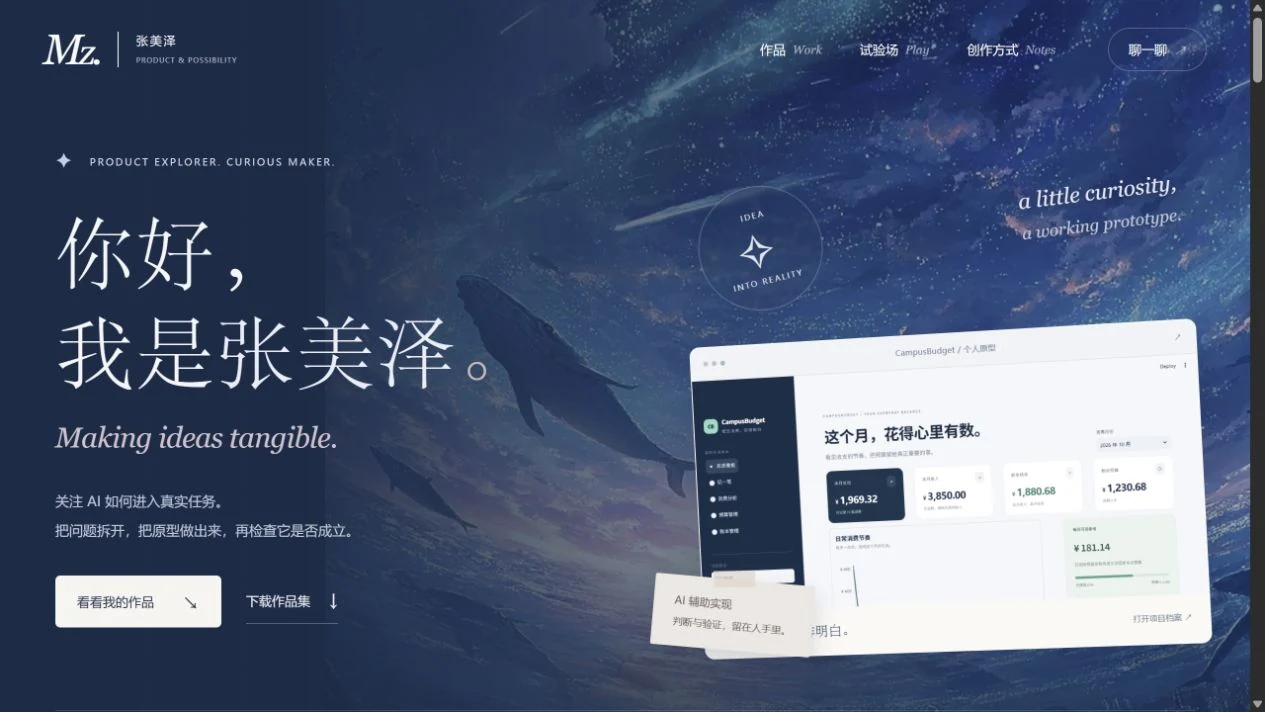
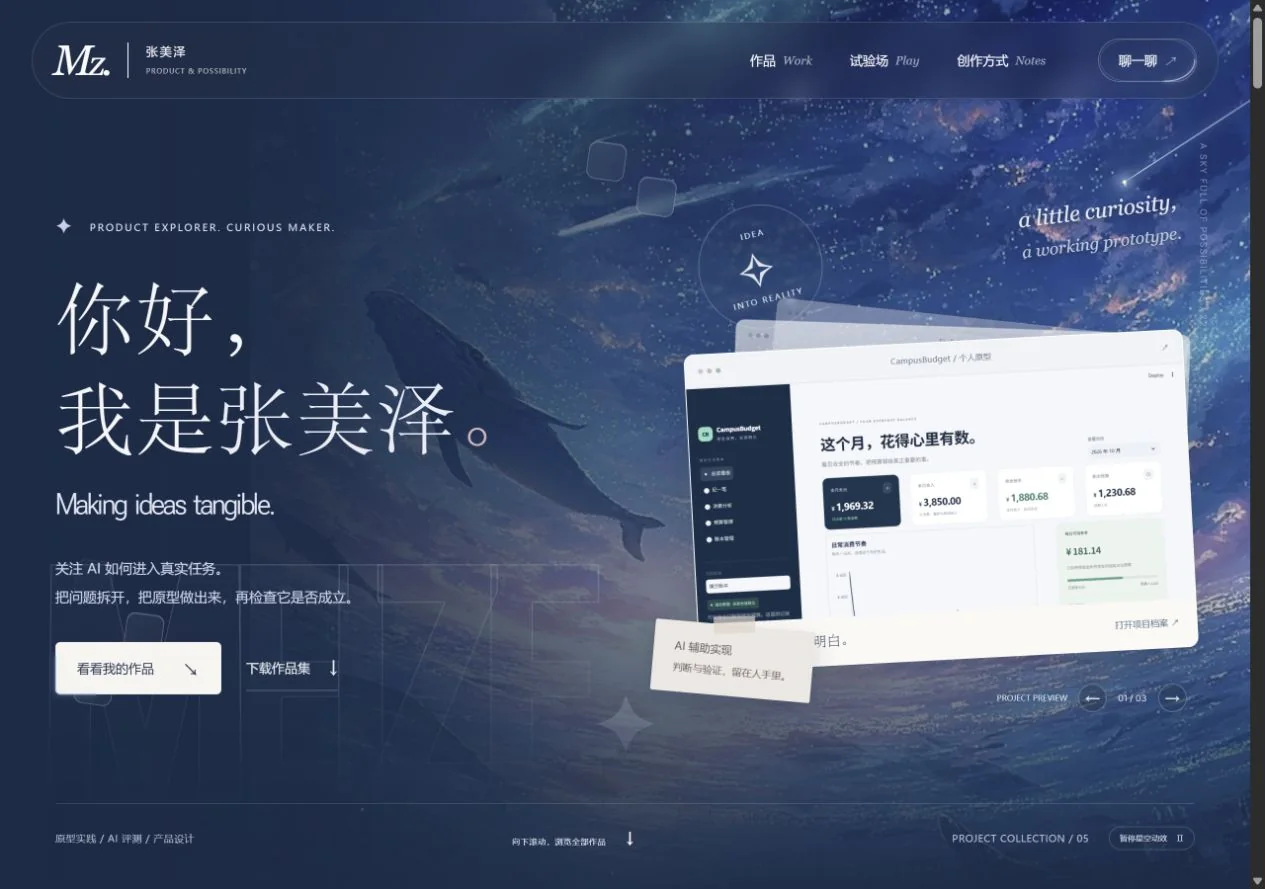
Reveal portfolio chapters through scroll-driven windows

diff --git a/index.html b/index.html
@@ -15,6 +15,7 @@
   <link rel="stylesheet" href="sea.css">
   <link rel="stylesheet" href="typography.css">
   <link rel="stylesheet" href="details.css">
+  <link rel="stylesheet" href="chapters.css?v=20261028-flow">
   <link rel="preconnect" href="https://fonts.googleapis.com">
   <link rel="preconnect" href="https://fonts.gstatic.com" crossorigin>
   <link href="https://fonts.googleapis.com/css2?family=Roboto+Flex:opsz,wdth,wght@8..144,25..151,100..1000&amp;display=swap" rel="stylesheet">
@@ -41,6 +42,7 @@
     <section class="hero" id="home" aria-labelledby="hero-title">
       <div class="hero-art" aria-hidden="true"></div>
       <div class="hero-haze" aria-hidden="true"></div>
+      <div class="hero-wordmark" aria-hidden="true">MEIZE<span>✦</span></div>
       <div class="star-field" aria-hidden="true"></div>
       <div class="meteor-field" aria-hidden="true"><i class="meteor meteor-one"></i><i class="meteor meteor-two"></i><i class="meteor meteor-three"></i></div>
       <div class="hero-glass" aria-hidden="true"></div>
@@ -67,7 +69,7 @@
           <span class="paper-note">AI 辅助实现<br><b>判断与验证，留在人手里。</b></span>
         </div>
       </div>
-      <div class="hero-bottom shell"><span>原型实践 / AI 评测 / 产品设计</span><a href="#coordinates">SCROLL TO EXPLORE <span aria-hidden="true">↓</span></a><span class="hero-settings"><span>PROJECT COLLECTION / 05</span><button id="motion-toggle" class="motion-toggle" aria-pressed="false">暂停星空动效 <span aria-hidden="true">Ⅱ</span></button></span></div>
+      <div class="hero-bottom shell"><span>原型实践 / AI 评测 / 产品设计</span><a href="#coordinates">向下滚动，浏览全部作品 <span aria-hidden="true">↓</span></a><span class="hero-settings"><span>PROJECT COLLECTION / 05</span><button id="motion-toggle" class="motion-toggle" aria-pressed="false">暂停星空动效 <span aria-hidden="true">Ⅱ</span></button></span></div>
     </section>
 
 
@@ -90,24 +92,24 @@
 
     <section class="work-section section-pad" id="work" aria-labelledby="work-title">
       <div class="shell">
-        <div class="section-heading reveal"><div><p class="eyebrow">01 / SELECTED WORK</p><h2 id="work-title">我的作品<span class="serif-amp">与</span>尝试<span class="heading-star" aria-hidden="true">✧</span></h2></div><p class="section-aside">从一个具体问题开始。<br>用可展示的过程，讲清楚我做了什么。</p></div>
+        <div class="section-heading reveal"><div><p class="eyebrow">01 / SELECTED WORK</p><h2 id="work-title" class="cinematic-work-title" aria-label="精选作品与实践"><span>SELECTED</span><br><span>WORK<span class="work-dot">.</span></span></h2></div><p class="section-aside">从一个具体问题开始。<br>用可展示的过程，讲清楚我做了什么。</p></div>
         <div class="work-toolbar reveal"><div class="filters" role="group" aria-label="按方向筛选作品"><button class="filter active" data-filter="all" aria-pressed="true">全部作品 <small>05</small></button><button class="filter" data-filter="prototype" aria-pressed="false">AI 辅助原型</button><button class="filter" data-filter="evaluation" aria-pressed="false">AI 评测</button><button class="filter" data-filter="product" aria-pressed="false">产品设计</button><button class="filter" data-filter="data" aria-pressed="false">数据分析</button></div><span class="filter-note" id="filter-note" aria-live="polite">5 个项目，逐项展开</span></div>
 
-<article class="project reveal" data-category="evaluation" id="project-evaluation"><button class="project-visual evaluation-visual" data-case="evaluation" aria-label="查看 AI 能力评测项目详情"><span class="visual-index">01 / AI EVALUATION</span><span class="eval-poster"><span class="data-poster-kicker">LOOK CLOSER AT THE ANSWER</span><span class="eval-poster-title">答得顺，<br><i>也值得再问一步。</i></span><span class="eval-answer"><small>原记录中的错误摘要</small><b>800 + 1,200 + 2,400</b><strong>“4.40 万元” <em>?</em></strong><span>算式看似正常，单位却放大了十倍。</span></span></span><span class="visual-caption">评测的不只是答案，还有错误发生的位置。</span><span class="open-dot" aria-hidden="true">↗</span></button><div class="project-copy"><p class="project-kicker">AI 能力测试 · 错误归因 · 小组实践</p><h3>AI 能力评测<span class="project-title-cn">“回答正确”之外，还看什么？</span></h3><p class="project-description">从金融信息不足、错误前提和约束计算切入，再用歧义探针观察不同模式的回答。把错误位置留下来，检查评测题本身有没有区分度。</p><dl class="project-facts"><div><dt>项目方式</dt><dd>小组共同完成，保留题目、回答与对照分析</dd></div><div><dt>值得展开</dt><dd>单位错误、约束遗漏、提示污染与题目区分度</dd></div></dl><div class="project-metrics"><span><b>14</b>份模型 / 模式回答记录</span><span><b>3</b>组补充歧义探针</span></div><button class="text-link" data-case="evaluation">打开项目档案 <span aria-hidden="true">↗</span></button></div></article>
-        <article class="project reveal" data-category="prototype" id="project-campus">
-          <button class="project-visual campus-visual" data-case="campus" aria-label="查看 CampusBudget 项目详情"><span class="visual-index">02 / PERSONAL PROJECT</span><span class="project-screen"><span class="window-bar"><span class="window-dots"><i></i><i></i><i></i></span><span>CampusBudget</span><span aria-hidden="true">↗</span></span><img loading="lazy" src="assets/campus-overview.png" alt="CampusBudget 深蓝与薄荷绿配色的真实总览界面，数据为模拟数据" width="1440" height="1320"></span><span class="visual-caption">从记一笔，到看清本月的安排。</span><span class="open-dot" aria-hidden="true">↗</span></button>
-          <div class="project-copy"><p class="project-kicker">AI 辅助开发 · 个人财务管理原型</p><h3>CampusBudget<span class="project-title-cn">让预算，更贴近日常。</span></h3><p class="project-description">记账只是开始。我把收支、消费结构和预算安排串成一个流程，让“还能花多少”有可以回看的计算依据。</p><dl class="project-facts"><div><dt>我的工作</dt><dd>原型实践与迭代，使用 Trae、Codex 辅助实现</dd></div><div><dt>值得展开</dt><dd>解析后确认、可解释提醒、跨月计算修复</dd></div></dl><div class="project-metrics"><span><b>24</b>项预设测试通过</span><span><b>5</b>个功能页面</span></div><div class="project-links"><button class="text-link" data-case="campus">打开项目档案 <span aria-hidden="true">↗</span></button><a class="subtle-link" href="https://github.com/rachelmeize-ui/CampusBudget" target="_blank" rel="noopener noreferrer">GitHub ↗</a></div></div>
+<article class="project reveal" data-category="evaluation" id="project-evaluation" data-index="01"><button class="project-visual evaluation-visual" data-case="evaluation" aria-label="查看 AI 能力评测项目详情"><span class="visual-index">01 / AI EVALUATION</span><span class="eval-poster"><span class="data-poster-kicker">LOOK CLOSER AT THE ANSWER</span><span class="eval-poster-title">答得顺，<br><i>也值得再问一步。</i></span><span class="eval-answer"><small>原记录中的错误摘要</small><b>800 + 1,200 + 2,400</b><strong>“4.40 万元” <em>?</em></strong><span>算式看似正常，单位却放大了十倍。</span></span></span><span class="visual-caption">评测的不只是答案，还有错误发生的位置。</span><span class="visual-entry" aria-hidden="true">点击查看完整案例 ↗</span></button><div class="project-copy"><p class="project-kicker">AI 能力测试 · 错误归因 · 小组实践</p><h3>AI 能力评测<span class="project-title-cn">“回答正确”之外，还看什么？</span></h3><p class="project-description">从金融信息不足、错误前提和约束计算切入，再用歧义探针观察不同模式的回答。把错误位置留下来，检查评测题本身有没有区分度。</p><dl class="project-facts"><div><dt>项目方式</dt><dd>小组共同完成，保留题目、回答与对照分析</dd></div><div><dt>值得展开</dt><dd>单位错误、约束遗漏、提示污染与题目区分度</dd></div></dl><div class="project-metrics"><span><b>14</b>份模型 / 模式回答记录</span><span><b>3</b>组补充歧义探针</span></div><button class="text-link" data-case="evaluation">查看完整案例 <span aria-hidden="true">↗</span></button></div></article>
+        <article class="project reveal" data-category="prototype" id="project-campus" data-index="02">
+          <button class="project-visual campus-visual" data-case="campus" aria-label="查看 CampusBudget 项目详情"><span class="visual-index">02 / PERSONAL PROJECT</span><span class="project-screen"><span class="window-bar"><span class="window-dots"><i></i><i></i><i></i></span><span>CampusBudget</span><span aria-hidden="true">↗</span></span><img loading="lazy" src="assets/campus-overview.png" alt="CampusBudget 深蓝与薄荷绿配色的真实总览界面，数据为模拟数据" width="1440" height="1320"></span><span class="visual-caption">从记一笔，到看清本月的安排。</span><span class="visual-entry" aria-hidden="true">点击查看完整案例 ↗</span></button>
+          <div class="project-copy"><p class="project-kicker">AI 辅助开发 · 个人财务管理原型</p><h3>CampusBudget<span class="project-title-cn">让预算，更贴近日常。</span></h3><p class="project-description">记账只是开始。我把收支、消费结构和预算安排串成一个流程，让“还能花多少”有可以回看的计算依据。</p><dl class="project-facts"><div><dt>我的工作</dt><dd>原型实践与迭代，使用 Trae、Codex 辅助实现</dd></div><div><dt>值得展开</dt><dd>解析后确认、可解释提醒、跨月计算修复</dd></div></dl><div class="project-metrics"><span><b>24</b>项预设测试通过</span><span><b>5</b>个功能页面</span></div><div class="project-links"><button class="text-link" data-case="campus">查看完整案例 <span aria-hidden="true">↗</span></button><a class="subtle-link" href="https://github.com/rachelmeize-ui/CampusBudget" target="_blank" rel="noopener noreferrer">GitHub ↗</a></div></div>
         </article>
 
-        <article class="project project-reverse reveal" data-category="product" id="project-finfair">
-          <button class="project-visual finfair-visual" data-case="finfair" aria-label="查看 FinFair 项目详情"><span class="visual-index">03 / TEAM PROTOTYPE</span><span class="finfair-paper"><span class="paper-eyebrow">FinFair / 金融信息核验</span><span class="paper-question">宣传怎么说？<br><em>原文怎么写？</em></span><span class="evidence-sample"><span class="sample-tag">模拟案例</span><span>“年化 3.20%”</span><span class="sample-divider" aria-hidden="true">↓</span><strong>业绩比较基准 ≠ 保证收益</strong><small>说明书 P.1 · 逐项对照与原文追溯</small></span></span><span class="visual-caption">让每一个提示，都有核对的入口。</span><span class="open-dot" aria-hidden="true">↗</span></button>
-          <div class="project-copy"><p class="project-kicker">AI 产品设计 · 金融场景 · 团队原型</p><h3>FinFair<span class="project-title-cn">让金融信息，有据可查。</span></h3><p class="project-description">把宣传文案与说明书放在一起，围绕收益、费用和风险提示差异，再把解释带回原文。</p><dl class="project-facts"><div><dt>我的工作</dt><dd>参与功能与流程讨论，负责商业计划、演示和汇报交付</dd></div><div><dt>值得展开</dt><dd>证据紧邻结论、信息缺失提示、用户核对路径</dd></div></dl><p class="role-note">团队协作项目，核心代码由另一位成员完成。</p><button class="text-link" data-case="finfair">打开项目档案 <span aria-hidden="true">↗</span></button></div>
+        <article class="project project-reverse reveal" data-category="product" id="project-finfair" data-index="03">
+          <button class="project-visual finfair-visual" data-case="finfair" aria-label="查看 FinFair 项目详情"><span class="visual-index">03 / TEAM PROTOTYPE</span><span class="finfair-paper"><span class="paper-eyebrow">FinFair / 金融信息核验</span><span class="paper-question">宣传怎么说？<br><em>原文怎么写？</em></span><span class="evidence-sample"><span class="sample-tag">模拟案例</span><span>“年化 3.20%”</span><span class="sample-divider" aria-hidden="true">↓</span><strong>业绩比较基准 ≠ 保证收益</strong><small>说明书 P.1 · 逐项对照与原文追溯</small></span></span><span class="visual-caption">让每一个提示，都有核对的入口。</span><span class="visual-entry" aria-hidden="true">点击查看完整案例 ↗</span></button>
+          <div class="project-copy"><p class="project-kicker">AI 产品设计 · 金融场景 · 团队原型</p><h3>FinFair<span class="project-title-cn">让金融信息，有据可查。</span></h3><p class="project-description">把宣传文案与说明书放在一起，围绕收益、费用和风险提示差异，再把解释带回原文。</p><dl class="project-facts"><div><dt>我的工作</dt><dd>参与功能与流程讨论，负责商业计划、演示和汇报交付</dd></div><div><dt>值得展开</dt><dd>证据紧邻结论、信息缺失提示、用户核对路径</dd></div></dl><p class="role-note">团队协作项目，核心代码由另一位成员完成。</p><button class="text-link" data-case="finfair">查看完整案例 <span aria-hidden="true">↗</span></button></div>
         </article>
 
-<article class="project project-reverse reveal" data-category="product" id="project-skill"><button class="project-visual skill-visual" data-case="skill" aria-label="查看金融项目 Skill 设计与测试详情"><span class="visual-index">04 / SKILL & VERIFICATION</span><span class="skill-poster"><span class="paper-eyebrow">fintech-project-briefing</span><span class="paper-question">同一个数字，<br><em>现在生效了吗？</em></span><span class="skill-version"><span>V1 / 未识别变更状态<b>380 万元</b><small>误用尚未生效的安排</small></span><span>V2 / 新增生效判断<b>420 万元</b><small>保留当前有效预算</small></span></span><span class="skill-sample-label">模拟信贷情景 / 失败与复测记录</span></span><span class="open-dot" aria-hidden="true">↗</span></button><div class="project-copy"><p class="project-kicker">Skill 工作流 · 质量核验 · 小组实践</p><h3>金融项目汇报 Skill<span class="project-title-cn">让规则，经得起复测。</span></h3><p class="project-description">把事实分级、缺失信息和版本变更写进可复用工作流。通过失败记录找出规则缺口，再对同一任务复测。</p><dl class="project-facts"><div><dt>项目方式</dt><dd>小组共同完成，使用 AI 辅助组织与生成交付材料</dd></div><div><dt>值得展开</dt><dd>变更生效判断、跨文档一致性与不适用任务</dd></div></dl><div class="project-metrics"><span><b>V1 / V2</b>版本对照</span><span><b>7</b>类场景测试记录</span></div><button class="text-link" data-case="skill">打开项目档案 <span aria-hidden="true">↗</span></button></div></article>
-        <article class="project reveal" data-category="data" id="project-marketing">
-          <button class="project-visual marketing-visual" data-case="marketing" aria-label="查看银行客户营销响应预测项目详情"><span class="visual-index">05 / DATA & DECISION</span><span class="data-poster"><span class="data-poster-kicker">BANK MARKETING ANALYTICS</span><span class="data-poster-title">先找到，<br><i>更值得联系的人。</i></span><span class="data-poster-chart"><span style="--bar:73%"><i></i><small>AdaBoost</small></span><span style="--bar:72.4%"><i></i><small>随机森林</small></span><span style="--bar:71.3%"><i></i><small>逻辑回归</small></span></span><span class="data-poster-foot">6 种模型 · 离线评估 · 客户分层建议</span></span><span class="open-dot" aria-hidden="true">↗</span></button>
-          <div class="project-copy"><p class="project-kicker">数据处理 · 模型评估 · 业务分析</p><h3>银行客户营销响应预测<span class="project-title-cn">让数据，参与业务判断。</span></h3><p class="project-description">从客户交易与产品使用信息中提取特征，对比分类模型，讨论有限触达资源应该优先分配给谁。</p><dl class="project-facts"><div><dt>我的工作</dt><dd>数据处理、模型对比与可视化，AI 编程工具辅助实现</dd></div></dl><div class="project-metrics"><span><b>4,050</b>名客户样本</span><span><b>0.727</b>离线测试 AUC</span></div><p class="role-note">Top 20% Lift 1.91，指标来自离线测试，尚未进行真实营销投放。</p><button class="text-link" data-case="marketing">打开项目档案 <span aria-hidden="true">↗</span></button></div>
+<article class="project project-reverse reveal" data-category="product" id="project-skill" data-index="04"><button class="project-visual skill-visual" data-case="skill" aria-label="查看金融项目 Skill 设计与测试详情"><span class="visual-index">04 / SKILL & VERIFICATION</span><span class="skill-poster"><span class="paper-eyebrow">fintech-project-briefing</span><span class="paper-question">同一个数字，<br><em>现在生效了吗？</em></span><span class="skill-version"><span>V1 / 未识别变更状态<b>380 万元</b><small>误用尚未生效的安排</small></span><span>V2 / 新增生效判断<b>420 万元</b><small>保留当前有效预算</small></span></span><span class="skill-sample-label">模拟信贷情景 / 失败与复测记录</span></span><span class="visual-entry" aria-hidden="true">点击查看完整案例 ↗</span></button><div class="project-copy"><p class="project-kicker">Skill 工作流 · 质量核验 · 小组实践</p><h3>金融项目汇报 Skill<span class="project-title-cn">让规则，经得起复测。</span></h3><p class="project-description">把事实分级、缺失信息和版本变更写进可复用工作流。通过失败记录找出规则缺口，再对同一任务复测。</p><dl class="project-facts"><div><dt>项目方式</dt><dd>小组共同完成，使用 AI 辅助组织与生成交付材料</dd></div><div><dt>值得展开</dt><dd>变更生效判断、跨文档一致性与不适用任务</dd></div></dl><div class="project-metrics"><span><b>V1 / V2</b>版本对照</span><span><b>7</b>类场景测试记录</span></div><button class="text-link" data-case="skill">查看完整案例 <span aria-hidden="true">↗</span></button></div></article>
+        <article class="project reveal" data-category="data" id="project-marketing" data-index="05">
+          <button class="project-visual marketing-visual" data-case="marketing" aria-label="查看银行客户营销响应预测项目详情"><span class="visual-index">05 / DATA & DECISION</span><span class="marketing-results"><span class="data-poster-kicker">BANK MARKETING / OFFLINE TEST</span><strong class="marketing-chart-title">六种模型，<br>谁更值得优先验证？</strong><span class="marketing-chart" role="img" aria-label="六种分类模型的离线测试 AUC，AdaBoost 0.7271，随机森林 0.7240，逻辑回归 0.7133，XGBoost 0.7078，决策树 0.7029，SVM 0.6532。图中柱长从 0 起算。"><span class="marketing-chart-row"><span>AdaBoost</span><span class="auc-track"><i style="width:90.8875%"></i></span><b>0.7271</b></span><span class="marketing-chart-row"><span>随机森林</span><span class="auc-track"><i style="width:90.5%"></i></span><b>0.7240</b></span><span class="marketing-chart-row"><span>逻辑回归</span><span class="auc-track"><i style="width:89.1625%"></i></span><b>0.7133</b></span><span class="marketing-chart-row"><span>XGBoost</span><span class="auc-track"><i style="width:88.475%"></i></span><b>0.7078</b></span><span class="marketing-chart-row"><span>决策树</span><span class="auc-track"><i style="width:87.8625%"></i></span><b>0.7029</b></span><span class="marketing-chart-row"><span>SVM</span><span class="auc-track"><i style="width:81.65%"></i></span><b>0.6532</b></span><span class="auc-axis"><span>0</span><span>AUC / 柱长上限 0.8</span><span>0.8</span></span></span><span class="marketing-chart-note">前两名 AUC 仅相差约 0.003，仍需结合解释性与执行成本判断。</span></span><span class="visual-entry" aria-hidden="true">点击查看完整案例 ↗</span></button>
+          <div class="project-copy"><p class="project-kicker">数据处理 · 模型评估 · 业务分析</p><h3>银行客户营销响应预测<span class="project-title-cn">让数据，参与业务判断。</span></h3><p class="project-description">从客户交易与产品使用信息中提取特征，对比分类模型，讨论有限触达资源应该优先分配给谁。</p><dl class="project-facts"><div><dt>我的工作</dt><dd>数据处理、模型对比与可视化，AI 编程工具辅助实现</dd></div></dl><div class="project-metrics"><span><b>4,050</b>名客户样本</span><span><b>0.727</b>离线测试 AUC</span></div><p class="role-note">Top 20% Lift 1.91，指标来自离线测试，尚未进行真实营销投放。</p><button class="text-link" data-case="marketing">查看完整案例 <span aria-hidden="true">↗</span></button></div>
         </article>
       </div>
     </section>
@@ -144,9 +146,10 @@
   <script src="https://cdnjs.cloudflare.com/ajax/libs/gsap/3.12.5/gsap.min.js"></script>
   <script src="https://cdnjs.cloudflare.com/ajax/libs/gsap/3.12.5/ScrollTrigger.min.js"></script>
   <script src="https://unpkg.com/lenis@1.1.13/dist/lenis.min.js"></script>
-  <script src="app.js"></script>
-  <script src="motion.js"></script>
+  <script src="app.js?v=20261028-flow"></script>
+  <script src="motion.js?v=20261028-flow"></script>
   <script src="typography.js"></script>
   <script src="details.js"></script>
+  <script src="chapters.js?v=20261028-flow"></script>
 </body>
 </html>

diff --git a/chapters.css b/chapters.css
@@ -1,0 +1,22 @@
+/* Chapter-by-chapter ocean portfolio. */
+.coordinates-section{height:auto;min-height:0}.coordinates-inner{padding-block:100px 110px}.coordinates-inner h2{font-size:clamp(30px,3.4vw,46px)}.evidence-card{height:150px}.coordinate-orbit{opacity:.4}
+.work-section{padding-top:105px;background:#f4f6f8}.work-section>.shell>.section-heading{align-items:flex-end;margin-bottom:62px}.work-section .section-heading .eyebrow{margin-bottom:25px;color:#6b7e99}.work-section .cinematic-work-title{font:600 clamp(80px,13vw,176px)/.82 'Roboto Flex','Inter Tight',var(--sans);font-variation-settings:'wdth' 70,'wght' 600;letter-spacing:-.065em;margin:0;line-height:.82;display:block}.cinematic-work-title>span{display:inline-block}.work-dot{-webkit-text-fill-color:#8c99b5}.work-section .section-aside{font-size:12px;padding-bottom:4px;line-height:2;color:#5f7591}.work-toolbar{margin-bottom:20px}.project{position:relative;isolation:isolate;min-height:670px;padding-top:70px;padding-bottom:70px;margin-bottom:45px;gap:65px}.project:before{content:attr(data-index);position:absolute;right:-10px;top:30px;z-index:-1;font:600 clamp(130px,17vw,220px)/1 'Inter Tight',sans-serif;letter-spacing:-.08em;color:#9aaec40b;-webkit-text-stroke:1px #8a9db01c;pointer-events:none}.project-visual{border-radius:24px}.project-copy{position:relative;z-index:2}.project h3{font-size:clamp(29px,3vw,40px);line-height:1.25}.project-title-cn{font-size:clamp(23px,2.3vw,31px);margin-top:12px;line-height:1.55}.project-kicker{letter-spacing:.1em}.project-metrics b{font-family:'Inter Tight',var(--sans);font-size:46px;letter-spacing:-.045em}.project-description{line-height:2}.project-facts{line-height:1.9}.project .text-link{font-size:12px}.project-visual .visual-index{font-size:8px;letter-spacing:.12em}.project-screen{border-radius:8px;box-shadow:0 25px 50px #20344f33}.campus-visual{background:linear-gradient(145deg,#cbd9eeaa,#d4dce85c),url('assets/portal-ocean.webp') center/cover}.finfair-visual{background:linear-gradient(120deg,#e7dfedca,#d3dfedb8),url('assets/luminous-shore.webp') center/cover}.marketing-visual{background:linear-gradient(135deg,#d1dceadf,#e4e5efeb),url('assets/blue-universe.webp') center/cover}
+#project-evaluation,#project-skill{padding:48px;gap:48px;border-radius:28px;border:1px solid #bcd4f244;overflow:hidden;min-height:660px;box-shadow:0 20px 50px #1329461a;background:linear-gradient(115deg,#09192fe8 0%,#102642ed 55%,#182e48ad),url('assets/portal-ocean.webp') center/cover;color:#eaf1fe}#project-skill{background-image:linear-gradient(120deg,#121c34ef,#192b46df),url('assets/night-tide.webp')}#project-evaluation:before,#project-skill:before{right:10px;top:5px;color:#b1caed04;-webkit-text-stroke:1px #b1caed1c}#project-evaluation .project-copy h3,#project-skill .project-copy h3{color:#f2f5fe}#project-evaluation .project-title-cn,#project-skill .project-title-cn{color:#c6d9f3}#project-evaluation .project-description,#project-skill .project-description{color:#b9cbe2}#project-evaluation .project-kicker,#project-skill .project-kicker{color:#a4bcdb}#project-evaluation .project-facts,#project-skill .project-facts{color:#c7d6e9}#project-evaluation .project-facts dt,#project-skill .project-facts dt{color:#8ea7c8}#project-evaluation .project-metrics,#project-skill .project-metrics{color:#b6c9e3}#project-evaluation .project-metrics b,#project-skill .project-metrics b{color:#e0dcf4}#project-evaluation .text-link,#project-skill .text-link{color:#d7e5fa}#project-evaluation .evaluation-visual,#project-skill .skill-visual{border:1px solid #bdd6ff3b;background:#aac6f315;backdrop-filter:blur(10px);-webkit-backdrop-filter:blur(10px);height:480px}#project-evaluation .eval-poster-title,#project-skill .paper-question{color:#e0eaf9}#project-evaluation .data-poster-kicker,#project-skill .paper-eyebrow{color:#a4bbd9}#project-evaluation .visual-index,#project-skill .visual-index,#project-evaluation .visual-caption,#project-skill .skill-sample-label{color:#bdcfe6}#project-evaluation .open-dot,#project-skill .open-dot{color:#cce0f9;border-color:#cce0f94d;background:#d5e4ff0d}#project-evaluation .eval-poster{inset:80px 34px 55px}#project-evaluation .eval-poster-title{font-size:34px}#project-evaluation .eval-poster-title i{font-size:27px}#project-evaluation .eval-answer{margin-top:25px;background:#edf2f8ed;color:#304b6e}#project-skill .skill-version{background:#d6e4f20b;border-color:#b3c6e336}#project-skill .skill-version>span{color:#b4c7e1}#project-skill .skill-version b{color:#d8e7fa}#project-skill .skill-version small{color:#a8bdd8}#project-skill .skill-version>span+span{border-color:#9db5d338}#project-skill .paper-question em{color:#b8c9e5}
+.case-hero{margin:-42px -55px 30px;padding:50px 55px 45px;position:relative;isolation:isolate;overflow:hidden;border-bottom:1px solid #839ab72b;background:linear-gradient(100deg,#07182ee8,#1029449c),url('assets/portal-ocean.webp') center 56%/cover}.case-hero:after{content:'PROJECT / LOG';position:absolute;right:30px;bottom:15px;color:#d7e6ff44;font:8px 'Inter Tight',sans-serif;letter-spacing:.17em}.case-hero .case-kicker{color:#abc2df;letter-spacing:.14em}.case-hero h2{color:#f0f5ff;font:500 clamp(30px,4vw,47px)/1.4 var(--sans);letter-spacing:-.04em;margin:18px 0}.case-hero .case-lead{color:#c0cfe3;margin-bottom:0;max-width:700px;font-size:13px;line-height:2}.case-dialog{border-radius:15px}.case-meta{margin-top:25px}.case-inner{padding-top:42px}.case-section h3{font-family:var(--sans);font-weight:500;letter-spacing:-.02em}.case-section p{line-height:2.05}
+
+:root{--muted:#536b86}.hero{isolation:isolate}.hero-content,.hero-bottom{position:relative;z-index:4}.hero-wordmark{position:absolute;z-index:2;bottom:72px;left:3vw;right:0;pointer-events:none;white-space:nowrap;font:600 clamp(100px,26vw,390px)/.8 "Roboto Flex","Inter Tight",sans-serif;font-variation-settings:"wdth" 65,"wght" 620;letter-spacing:-.07em;color:#c9dcf006;-webkit-text-stroke:1px #c4d8f23d;mask-image:linear-gradient(#000,transparent 96%);user-select:none}.hero-wordmark>span{font-size:.22em;margin-left:.25em;color:#c4d8ef77;-webkit-text-stroke:0;vertical-align:middle}.hero .hero-actions,.hero-copy{z-index:5}.hero-bottom{padding-bottom:17px}.hero-bottom>a{color:#d8e5f7!important;letter-spacing:.08em}.hero-project-footer>span{font-size:9px}.hero-copy .eyebrow{color:#d5dfef}.hero-intro{color:#c6d4e8}.coordinates-section{position:relative;isolation:isolate;background:#102945;overflow:hidden;color:#e9f2ff}.coordinates-section:before{z-index:-1;background:linear-gradient(100deg,#0a1c34ec,#143453c2),url("assets/portal-ocean.webp") center 55%/cover;opacity:1}.coordinates-section:after{content:"EVIDENCE";position:absolute;top:22px;right:1vw;z-index:0;font:600 clamp(70px,15vw,210px)/1 "Inter Tight",sans-serif;letter-spacing:-.065em;color:#c4d9ff04;-webkit-text-stroke:1px #acc5e021;pointer-events:none}.coordinates-inner{position:relative;z-index:3;padding-block:110px 100px}.coordinates-inner h2{color:#f1f6ff;font-family:var(--sans);font-weight:400;letter-spacing:-.035em}.sky-pill{color:#bfd3ef;background:#aac4e913;border-color:#b4cce538}.coordinate-grid{opacity:.2}.coordinate-orbit{color:#acc7ec;opacity:.35}.coordinate-orbit circle{fill:#102945;stroke:#b6d1f2}.coordinate-orbit span{color:#afc9e8}.evidence-card,.evidence-card:nth-child(2),.evidence-card:nth-child(3),.evidence-card:nth-child(4){background:#b3cdec15;color:#dceafb;box-shadow:inset 0 1px 0 #c6ddff33;backdrop-filter:blur(9px);-webkit-backdrop-filter:blur(9px)}.evidence-card:nth-child(2){background:#b3cdec21}.evidence-card:nth-child(3){background:#b7abc62b}.evidence-card:nth-child(4){background:#adcdd828}.evidence-card:hover{background:#c2dcfa2b}.evidence-card>span:first-child{color:#b5cce8}.evidence-card b{color:#f0f6ff;font-size:63px}.evidence-card>span:last-child{font-size:11px;color:#e2edfc}.evidence-note{color:#c0d0e5;font-size:11px}.coordinates-link{color:#d0e0f5;font-size:12px}.work-section{background:#e5ebf2}.work-section:before{opacity:.11}.work-section:after{opacity:.06}.work-section .section-aside,.work-section .project-description{color:#435c7b}.project-facts{color:#4c6481}.project-facts dt{color:#607792}.role-note{color:#5b718b;font-size:11px}.project-kicker{color:#5e7490}.project-visual:focus-visible{clip-path:inset(0 round 24px)!important}.project .text-link{display:inline-flex;align-items:center;justify-content:space-between;gap:25px;min-height:42px;padding:10px 16px;border:1px solid #8ba3bf70;border-radius:8px;background:#d0dbe92e;color:#2e4c70;font-size:12px;font-weight:500}.project .text-link:hover{background:#c6d5e880}.project .visual-entry{position:absolute;z-index:8;right:18px;bottom:18px;padding:7px 11px;border:1px solid #9db4d27a;border-radius:999px;background:#f2f6f9e8;color:#29486d;font-size:10px;line-height:1.5;box-shadow:0 3px 15px #19315012}.project .visual-caption{max-width:calc(100% - 185px);color:#536b87;font-size:10px;line-height:1.7}.project h3{color:#284767}.project-title-cn{color:#3d5d82}.project-metrics{color:#546d8d}.project-metrics b{color:#355a81}#project-evaluation .text-link,#project-skill .text-link{color:#e1edff;border-color:#abc3e65c;background:#b2c9e712}#project-evaluation .text-link:hover,#project-skill .text-link:hover{background:#b2c9e729}#project-evaluation .project-metrics,#project-skill .project-metrics{font-size:11px}#project-evaluation .visual-caption,#project-skill .visual-caption{color:#bfd2eb}#project-evaluation .visual-entry,#project-skill .visual-entry{background:#16324fe8;color:#e4f0ff;border-color:#b3d0f65c}.marketing-visual{background:radial-gradient(ellipse at 90% 5%,#244d77,#10243d 75%);color:#f0f6ff;border:1px solid #6689ae66}.marketing-visual .visual-index{color:#bad0eb}.marketing-results{position:absolute;inset:65px 30px 58px;display:flex;flex-direction:column;text-align:left}.marketing-results .data-poster-kicker{font:8px/1.6 "Inter Tight",var(--sans);letter-spacing:.12em;color:#a9c3df}.marketing-chart-title{font:400 clamp(25px,2.6vw,34px)/1.4 var(--sans);letter-spacing:-.04em;color:#f1f6ff;margin:15px 0 24px}.marketing-chart{display:block}.marketing-chart-row{display:grid;grid-template-columns:74px 1fr 54px;align-items:center;gap:12px;margin:12px 0;font-size:11px;color:#d6e5f7;line-height:1.5}.marketing-chart-row>b{font:500 13px "Inter Tight",var(--sans);font-variant-numeric:tabular-nums;letter-spacing:.02em;text-align:right;color:#eef6ff}.auc-track{height:10px;background:#91aec02e;border-radius:3px;overflow:hidden}.auc-track>i{display:block;height:100%;background:linear-gradient(90deg,#7899c3,#acc9ec);border-radius:3px}.marketing-chart-row:first-child .auc-track>i{background:linear-gradient(90deg,#66b8cc,#a1e0ea)}.marketing-chart-row:first-child>b{color:#aaebf0}.auc-axis{display:flex;justify-content:space-between;font:8px/1.5 "Inter Tight",var(--sans);color:#a9bedb;padding-left:86px;padding-right:65px;margin-top:6px}.marketing-chart-note{color:#c8d9ee;font-size:9px;line-height:1.7;margin-top:18px;max-width:390px}.marketing-visual .visual-entry{background:#1c3a5ce8;color:#e4f0ff;border-color:#b3d0f65c}.about-intro p,.experience-item p{color:#4b637f}.play-story>p{color:#425c7a}.case-caption{color:#627a96;font-size:10px}.chapter-guide{display:flex;align-items:center;gap:9px;margin:22px 0 0;color:#5b7291;font-size:10px;line-height:1.8}.chapter-guide:before{content:"↓";display:grid;place-items:center;width:25px;height:25px;border:1px solid #849dbb70;border-radius:50%;font-size:14px}
+@media(max-width:1100px){.project{gap:38px}#project-evaluation,#project-skill{padding:32px;gap:30px}#project-evaluation .eval-poster{inset:75px 25px 55px}#project-evaluation .eval-poster-title{font-size:31px}#project-evaluation .eval-poster-title i{font-size:24px}.marketing-results{inset:60px 24px 55px}.marketing-chart-row{grid-template-columns:66px 1fr 50px;gap:9px}.auc-axis{padding-left:75px;padding-right:59px}.marketing-chart-title{font-size:28px}}
+@media(max-width:760px){.hero-wordmark{font-size:29vw;left:4vw;bottom:95px;-webkit-text-stroke:.6px #c4d8f24d}.hero-bottom{padding-bottom:17px}.hero .hero-project-footer>span{font-size:7px}.hero-settings{gap:7px}.hero-bottom>a{letter-spacing:.05em;font-size:8px}.coordinates-inner{padding:95px 0 82px}.coordinates-inner h2{font-size:29px;line-height:1.5}.coordinates-section:after{font-size:20vw;top:24px;right:3vw}.evidence-card b{font-size:49px}.evidence-card>span:last-child{font-size:9px}.evidence-note{font-size:10px}.coordinates-link{font-size:10px}.work-section{padding-top:78px}.work-section>.shell>.section-heading{margin-bottom:35px}.work-section .cinematic-work-title{font-size:clamp(69px,19vw,115px);line-height:.84;letter-spacing:-.055em}.work-section .section-heading .eyebrow{margin-bottom:20px}.work-section .section-aside{margin-top:25px;font-size:11px}.project{min-height:0;padding-top:38px;padding-bottom:40px;gap:28px;margin-bottom:35px}.project:before{top:10px;right:-6px;font-size:160px}.project h3{font-size:31px}.project-title-cn{font-size:25px}.project-visual{border-radius:20px}.project-metrics b{font-size:39px}.project-description{font-size:13px}.project-facts{font-size:11px}.project-kicker{font-size:9px}.project .text-link{min-height:44px;font-size:12px;padding:10px 14px}.project .visual-entry{font-size:9px;padding:7px 10px;right:14px;bottom:14px}.project .visual-caption{font-size:9px;max-width:calc(100% - 160px);line-height:1.6;bottom:20px}#project-evaluation,#project-skill{padding:21px;gap:30px;border-radius:23px;min-height:0}#project-evaluation .evaluation-visual,#project-skill .skill-visual{height:395px;border-radius:15px}#project-evaluation .eval-poster{inset:64px 22px 45px}#project-evaluation .eval-poster-title{font-size:29px}#project-evaluation .eval-poster-title i{font-size:23px}#project-evaluation .eval-answer{margin-top:20px;padding:15px}#project-evaluation .visual-caption{font-size:8px;left:20px;right:20px;bottom:20px}#project-evaluation .project-metrics{gap:20px}#project-evaluation .project-metrics span{font-size:9px}#project-skill .skill-poster{inset:62px 20px 30px}#project-skill .paper-question{font-size:25px}#project-skill .skill-version b{font-size:25px}#project-skill .skill-version>span{font-size:8px}.marketing-visual{height:470px}.marketing-results{inset:59px 20px 60px}.marketing-chart-title{font-size:27px;margin:13px 0 20px}.marketing-chart-row{grid-template-columns:60px 1fr 48px;gap:8px;margin:13px 0;font-size:10px}.marketing-chart-row>b{font-size:12px}.auc-track{height:9px}.auc-axis{padding-left:68px;padding-right:56px;font-size:7px}.marketing-chart-note{font-size:9px;margin-top:18px}.case-hero{margin:-28px -23px 24px;padding:35px 23px}.case-hero h2{font-size:29px;line-height:1.45}.case-hero .case-lead{font-size:11px}.case-inner{padding-top:28px}.case-hero:after{font-size:6px;bottom:8px;right:15px}.case-meta{margin-top:20px}.chapter-guide{font-size:10px;margin-top:18px}}
+@media(prefers-reduced-motion:reduce){.hero-wordmark{mask-image:none}}.chapter-guide{margin-bottom:30px}
+
+/* Scroll replaces the presentation-style pager. */
+.site-footer{padding-bottom:26px!important}.work-intro-scene{position:relative;isolation:isolate}.scroll-cinema{--scene-gutter:max(56px,calc((100vw - 1280px)/2));background:#dfe8f2}.scroll-cinema #app{background:transparent}.scroll-cinema .work-section{padding:0;background:transparent;overflow:visible}.scroll-cinema .work-section:before,.scroll-cinema .work-section:after{display:none}.scroll-cinema .work-intro-scene{width:100vw;margin-left:calc(50% - 50vw);min-height:100svh;display:flex;flex-direction:column;justify-content:center;padding:100px var(--scene-gutter) 70px;background:#e0e8f2;box-sizing:border-box}.work-intro-scene>.section-heading{display:flex;align-items:flex-end;justify-content:space-between;gap:40px;margin-bottom:20px!important}.work-intro-scene>.chapter-guide{margin:24px 0 28px}.work-intro-scene>.work-toolbar{margin-bottom:0}.scroll-cinema .project{width:100vw;margin-left:calc(50% - 50vw);min-height:100svh;margin-bottom:0;padding:72px var(--scene-gutter);border-radius:0;background:#dfe8f2;box-sizing:border-box}.scroll-cinema #project-evaluation,.scroll-cinema #project-skill{padding:72px var(--scene-gutter);min-height:100svh;border-radius:0}.scroll-cinema .project:before{right:var(--scene-gutter);top:32px}.cinema-scene{isolation:isolate;backface-visibility:hidden}.scroll-cinema .play-section,.scroll-cinema .about-section{min-height:100svh}.scroll-cinema .method-section{min-height:100svh}.scroll-cinema .coordinates-section{min-height:100svh;display:flex;align-items:center}.scroll-cinema .coordinates-inner{width:min(1280px,calc(100% - 112px))}.cinema-scene:focus-within{clip-path:inset(0 round 0px)!important}.chapter-guide{font-size:11px;color:#536d8b}.chapter-guide:before{content:"↓"}.scroll-cinema .project .text-link:focus-visible{outline-offset:4px}
+@media(max-width:900px){.scroll-cinema{--scene-gutter:36px}.scroll-cinema .coordinates-inner{width:calc(100% - 72px)}}
+@media(max-width:760px){.scroll-cinema{--scene-gutter:22px}.scroll-cinema .work-intro-scene{min-height:85svh;padding-top:82px;padding-bottom:60px}.work-intro-scene>.section-heading{display:block}.work-intro-scene .section-aside{margin-top:25px}.work-intro-scene>.chapter-guide{margin:20px 0 24px;font-size:10px}.scroll-cinema .project,.scroll-cinema #project-evaluation,.scroll-cinema #project-skill{padding:50px var(--scene-gutter) 55px}.scroll-cinema .coordinates-inner{width:calc(100% - 44px)}.scroll-cinema .coordinates-section{min-height:100svh}.scroll-cinema .play-section,.scroll-cinema .about-section{min-height:0}.scroll-cinema .method-section{min-height:0}.site-footer{padding-bottom:25px!important}}
+@media(prefers-reduced-motion:reduce){.cinema-scene{clip-path:none!important;filter:none!important;transform:none!important}}
+
+.scroll-cinema .work-intro-scene,.scroll-cinema .project{width:var(--scene-width,100vw);margin-left:calc(50% - var(--scene-half-width,50vw))}.scroll-cinema{--scene-gutter:max(56px,calc((var(--scene-width,100vw) - 1280px)/2))}@media(max-width:900px){.scroll-cinema{--scene-gutter:36px}}@media(max-width:760px){.scroll-cinema{--scene-gutter:22px}}
+
+#project-evaluation .eval-poster-title i{color:#ccdef6}#project-evaluation .project-facts dd,#project-skill .project-facts dd{color:#d0e0f3}#project-evaluation .project-facts dt,#project-skill .project-facts dt{color:#a9c2e1}.project-description{font-size:13px}.project-facts{font-size:11px}
+
+#project-skill .skill-version>span{background:#b5ccea10;border:1px solid #a9c4e63d;color:#c4d8f0}#project-skill .skill-version>span+span{background:#a9c8e82b;border-color:#a9c4e65c}#project-skill .skill-version b{color:#d8ebff}#project-skill .skill-version small{color:#c0d3eb;font-size:9px}@media(max-width:760px){#project-skill .skill-version>span{font-size:9px}#project-skill .skill-version small{font-size:9px}}

diff --git a/chapters.js b/chapters.js
@@ -1,0 +1,78 @@
+/* Scroll-scrubbed windows reveal the actual next section. No pager or scroll hijack. */
+(() => {
+  'use strict';
+  const reduce = matchMedia('(prefers-reduced-motion: reduce)');
+  const work = document.querySelector('#work > .shell');
+  const intro = document.createElement('div');
+  intro.className = 'work-intro-scene'; intro.id = 'work-intro';
+  const heading = work.querySelector(':scope > .section-heading');
+  const toolbar = work.querySelector(':scope > .work-toolbar');
+  const guide = document.createElement('p'); guide.className = 'chapter-guide';
+  guide.textContent = '向下滚动，继续探索。点击项目卡片或「查看完整案例」阅读具体过程。';
+  intro.append(heading, guide, toolbar); work.prepend(intro);
+  const projects = [...document.querySelectorAll('.project')];
+  projects.forEach(project => project.classList.remove('reveal'));
+  if (!window.gsap || !window.ScrollTrigger || reduce.matches) return;
+  const {gsap, ScrollTrigger} = window;
+  // Remove only the former entrance tween on project roots, so pins have clean geometry.
+  projects.forEach(project => {
+    gsap.getTweensOf(project).forEach(tween => {tween.scrollTrigger?.kill(); tween.kill();});
+    gsap.set(project, {clearProps:'opacity,transform'});
+  });
+  const ids = ['home','coordinates','work-intro','project-evaluation','project-campus','project-finfair','project-skill','project-marketing','playground','about','method','contact'];
+  let context;
+  const syncWidth = () => {
+    const w=document.documentElement.clientWidth;
+    document.documentElement.style.setProperty('--scene-width',w+'px');
+    document.documentElement.style.setProperty('--scene-half-width',(w/2)+'px');
+  };
+  addEventListener('resize',syncWidth,{passive:true});
+  const build = () => {
+    context?.revert();
+    const scenes = ids.map(id=>document.getElementById(id)).filter(node=>node && !node.hidden && getComputedStyle(node).display !== 'none');
+    document.documentElement.classList.add('scroll-cinema');
+    document.getElementById('work').style.zIndex='3';
+    syncWidth();
+    scenes.forEach((scene,i)=>{scene.classList.add('cinema-scene');scene.style.zIndex=String(i+1);});
+    context = gsap.context(() => {
+      scenes.forEach((scene,index) => {
+        const next = scenes[index+1];
+        if (!next) return;
+        // A tall chapter is pinned only after its lower edge has been read.
+        ScrollTrigger.create({
+          id:'cinema-hold-'+scene.id,trigger:scene,start:'bottom bottom',
+          end:()=>'+='+Math.min(innerHeight*.9,next.offsetHeight*.85),
+          pin:true,pinSpacing:false,anticipatePin:1,invalidateOnRefresh:true
+        });
+        gsap.fromTo(next,
+          {clipPath:'inset(14% 18% 14% 18% round 75px)'},
+          {clipPath:'inset(0% 0% 0% 0% round 0px)',ease:'none',
+            scrollTrigger:{id:'cinema-window-'+next.id,trigger:next,start:'top 98%',end:'top 10%',scrub:.55,invalidateOnRefresh:true}}
+        );
+        gsap.to(scene,{filter:'brightness(.74)',ease:'none',
+          scrollTrigger:{trigger:next,start:'top 98%',end:'top 10%',scrub:.55,invalidateOnRefresh:true}});
+        if (next.matches('.project')) {
+          gsap.fromTo(next.querySelector('.project-visual'),{scale:.955},{scale:1,ease:'none',
+            scrollTrigger:{trigger:next,start:'top 95%',end:'top 18%',scrub:.6}});
+        }
+      });
+    });
+    ScrollTrigger.refresh();
+  };
+  // The opening zoom must finish before any fixed scene is measured.
+  if (document.body.classList.contains('motion-intro')) {
+    const observer = new MutationObserver(()=>{
+      if (!document.body.classList.contains('motion-intro')) {observer.disconnect();build();}
+    }); observer.observe(document.body,{attributes:true,attributeFilter:['class']});
+  } else build();
+  document.querySelectorAll('[data-filter]').forEach(button=>button.addEventListener('click',()=>{
+    context?.revert(); context=null; requestAnimationFrame(build);
+  },{capture:true}));
+  const refreshDemo=()=>requestAnimationFrame(()=>ScrollTrigger.refresh());
+  document.addEventListener('click',event=>{
+    if(event.target.closest('#parse-button,[data-example],[data-mode],#confirm-demo')) refreshDemo();
+  });
+  document.getElementById('entry-input')?.addEventListener('keydown',event=>{if(event.key==='Enter') refreshDemo();});
+  document.fonts?.ready.then(()=>ScrollTrigger.refresh());
+  addEventListener('load',()=>ScrollTrigger.refresh(),{once:true});
+})();

diff --git a/app.js b/app.js
@@ -95,7 +95,7 @@ function openCase(id, updateHash = true) {
   previousFocus = document.activeElement;
   if (!dialog.open) previousHash = location.hash.startsWith('#case-') ? '#work' : (location.hash || '#work');
   activeCase = id;
-  caseContent.innerHTML = `<article class="case-inner"><p class="case-kicker">${item.kicker}</p><h2 id="case-title">${item.title}</h2><p class="case-lead">${item.lead}</p><div class="case-meta"><div><strong>${item.roleLabel || "我的参与"}</strong>${item.role}</div><div><strong>当前状态</strong>${item.state}</div></div>${item.image ? `<img class="case-image ${id==='marketing'||id==='evaluation'?'full':''}" src="${item.image}" alt="${item.alt}"><p class="case-caption">${item.caption}</p>` : ""}${item.content}</article>`;
+  caseContent.innerHTML = `<article class="case-inner"><header class="case-hero"><p class="case-kicker">${item.kicker}</p><h2 id="case-title">${item.title}</h2><p class="case-lead">${item.lead}</p></header><div class="case-meta"><div><strong>${item.roleLabel || "我的参与"}</strong>${item.role}</div><div><strong>当前状态</strong>${item.state}</div></div>${item.image ? `<img class="case-image ${id==='marketing'||id==='evaluation'?'full':''}" src="${item.image}" alt="${item.alt}"><p class="case-caption">${item.caption}</p>` : ""}${item.content}</article>`;
   if (!dialog.open) dialog.showModal();
   document.body.classList.add('modal-open');
   dialog.scrollTop = 0;

diff --git a/motion.js b/motion.js
@@ -127,9 +127,8 @@
       setCounters(0);
       const proxy = {p:0};
       gsap.from('.evidence-card',{y:40,opacity:0,duration:.75,stagger:.08,scrollTrigger:{trigger:'.evidence-cards',start:'top 87%'}});
-      gsap.timeline({scrollTrigger:{trigger:'#coordinates',start:'top top',end:'+=85%',pin:true,scrub:1,invalidateOnRefresh:true}})
-        .to(proxy,{p:1,ease:'none',onUpdate:()=>setCounters(proxy.p)},0)
-        .fromTo('.coordinate-orbit',{yPercent:45,opacity:.15},{yPercent:0,opacity:.65,ease:'none'},0);
+      gsap.to(proxy,{p:1,duration:1.7,ease:'power2.out',onUpdate:()=>setCounters(proxy.p),scrollTrigger:{trigger:'.evidence-cards',start:'top 88%',once:true}});
+      gsap.fromTo('.coordinate-orbit',{yPercent:25,opacity:.2},{yPercent:0,opacity:.5,ease:'none',scrollTrigger:{trigger:'#coordinates',start:'top bottom',end:'bottom bottom',scrub:true}});
       return ()=>setCounters(1);
     });
     media.add('(max-width:900px)',()=>{

diff --git a/README.md b/README.md
@@ -33,3 +33,11 @@
 ## 交互与文字
 
 参考作者提供的 React Bits TextPressure、MaskedHeading、StrokeText、FoldText、StarBorder、JellyRadio、CardSwap、Galaxy / Particles 示例，以原生 CSS、SVG、Canvas 和 JavaScript 重新组织适合本网站的效果。没有加入 React 或构建步骤。首页项目卡片由访客手动切换；触屏与减少动态效果均保留静态可读内容。暂停星空动效会同步暂停星光边框和背景粒子。
+
+## 章节阅读方式
+
+封面保留真实作品截图卡片、文字互动和星空粒子，底部增加 MEIZE 轮廓字。阅读顺序为封面、探索记录、Selected Work、五个项目概览及后续章节。访客连续滚动时，下一章节会以圆角窗口自动展开，当前场景在背景短暂停留并变暗。没有底部翻页栏，滚动距离决定转场进度。较长章节会先允许读完再衔接下一段。具体过程与完整作品集保持点击查看。
+
+数据分析概览现以高对比度原生图表展示六个已保存的离线 AUC，柱长从 0 起算，并注明测试范围。图表结果和个人分工没有因视觉改版而变化。
+
+新增星海场景 `assets/portal-ocean.webp` 由内置 image_gen 生成，用于章节转场、探索记录与案例页氛围。生成原图和完整提示词保存在本机开发资料中。减少动态效果时使用普通连续阅读；动效资源不可用时仍可阅读与打开项目详情。
